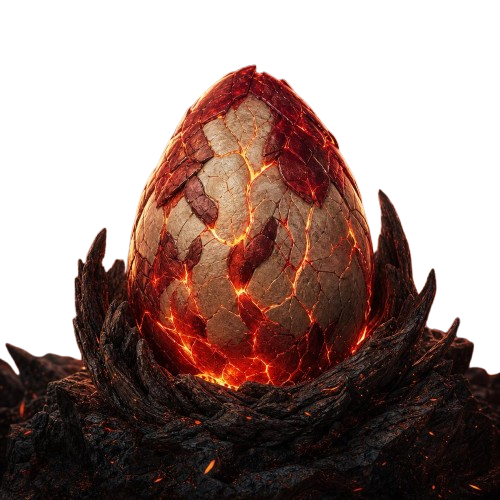
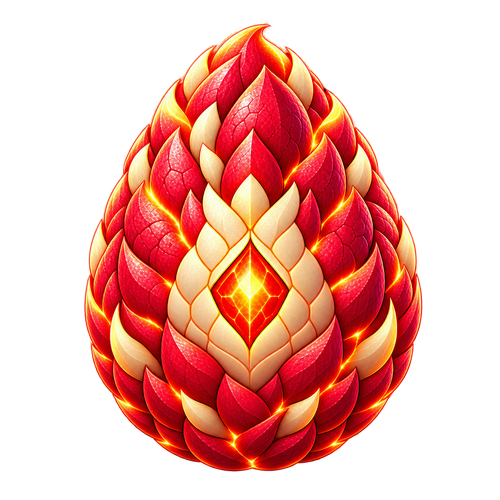
feat(pets): reimage egg1/egg2 common pets, all stages
Replace all 22 sprite files for the fire (egg1) and forest (egg2)
common egg lines with new artwork, resized/padded to the required
500x500 RGBA spec. Recalibrate the 12 egg1/egg2 stage4
spriteGroundOffsets.ts values by scanning each new sprite's alpha
channel for its lowest opaque pixel row, so raid-scene foot
placement matches the new art instead of the old.

diff --git a/src/lib/raid/spriteGroundOffsets.ts b/src/lib/raid/spriteGroundOffsets.ts
@@ -12,17 +12,17 @@ export const SPRITE_GROUND_OFFSET_PCT: Record<string, number> = {
   "/raid/boss_ridge_gale.png": 0.56,
   "/raid/boss_ridge_storm.png": 0,
 
-  "/pets/egg1_stage4_balance_A.png": 2.4,
-  "/pets/egg1_stage4_balance_B.png": 5.0,
-  "/pets/egg1_stage4_math_A.png": 0,
-  "/pets/egg1_stage4_math_B.png": 1.2,
-  "/pets/egg1_stage4_science_A.png": 1.0,
-  "/pets/egg1_stage4_science_B.png": 1.2,
-  "/pets/egg2_stage4_balance_A.png": 0,
-  "/pets/egg2_stage4_balance_B.png": 0,
-  "/pets/egg2_stage4_math_A.png": 5.2,
-  "/pets/egg2_stage4_math_B.png": 4.8,
-  "/pets/egg2_stage4_science_A.png": 0,
+  "/pets/egg1_stage4_balance_A.png": 2.2,
+  "/pets/egg1_stage4_balance_B.png": 4.0,
+  "/pets/egg1_stage4_math_A.png": 0.8,
+  "/pets/egg1_stage4_math_B.png": 0,
+  "/pets/egg1_stage4_science_A.png": 0.4,
+  "/pets/egg1_stage4_science_B.png": 0.4,
+  "/pets/egg2_stage4_balance_A.png": 2.4,
+  "/pets/egg2_stage4_balance_B.png": 3.0,
+  "/pets/egg2_stage4_math_A.png": 5.6,
+  "/pets/egg2_stage4_math_B.png": 14.4,
+  "/pets/egg2_stage4_science_A.png": 3.6,
   "/pets/egg2_stage4_science_B.png": 4.0,
   "/pets/egg3_stage4_balance_A.png": 5.8,
   "/pets/egg3_stage4_balance_B.png": 0.8,
